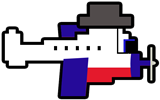
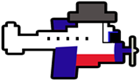
Changed obstacle.

diff --git a/build/html5/c2runtime.js b/build/html5/c2runtime.js
@@ -311,39 +311,39 @@ s||(this.b.trigger(Ob.prototype.j.Tn,this.e),this.gc=1));0<this.Ge&&this.Ge--;th
 (function(){function g(){}function q(){}var c=Pb.prototype;c.ta=function(a){this.Na=a;this.b=a.b};c.ta.prototype.X=u();c.ka=function(a,b){this.type=a;this.Na=a.Na;this.e=b;this.b=a.b};var h=c.ka.prototype;h.X=function(){this.Xa={}};h.cf=function(){Ka(this.Xa)};h.ib=function(){var a={},b,c;for(b in this.Xa)this.Xa.hasOwnProperty(b)&&(c=this.Xa[b],a[b]={c:c.nd.ba,t:c.total.ba,d:c.duration,r:c.fk});return a};h.Nb=function(a){this.Xa={};for(var b in a)a.hasOwnProperty(b)&&(this.Xa[b]={nd:new La,total:new La,
 duration:a[b].d,fk:a[b].r},this.Xa[b].nd.ba=a[b].c,this.Xa[b].total.ba=a[b].t)};h.qc=function(){var a=this.b.Jf(this.e),b,c;for(b in this.Xa)this.Xa.hasOwnProperty(b)&&(c=this.Xa[b],c.nd.add(a),c.total.add(a))};h.bi=function(){var a,b;for(a in this.Xa)this.Xa.hasOwnProperty(a)&&(b=this.Xa[a],b.nd.ba>=b.duration&&(b.fk?b.nd.ba-=b.duration:delete this.Xa[a]))};g.prototype.ao=function(a){a=a.toLowerCase();return(a=this.Xa[a])?a.nd.ba>=a.duration:!1};c.j=new g;q.prototype.eo=function(a,b,c){this.Xa[c.toLowerCase()]=
 {nd:new La,total:new La,duration:a,fk:1===b}};c.k=new q;c.A=new (u())})();function Nb(g){this.b=g}(function(){function g(){}function q(){}var c=Nb.prototype;c.ta=function(a){this.Na=a;this.b=a.b};c.ta.prototype.X=u();c.ka=function(a,b){this.type=a;this.Na=a.Na;this.e=b;this.b=a.b};var h=c.ka.prototype;h.X=function(){this.e.I.tk=0!==this.Y[0]};h.qc=u();g.prototype.Dn=function(){return this.e.I.tk};c.j=new g;q.prototype.Dg=function(a){this.e.I.tk=!!a};c.k=new q})();
-function Mb(){return[null,"Splash Layout",[[R,!0,!1,!1,!1,!1,!1,!1,!1,!1],[S,!0,!1,!1,!1,!1,!1,!1,!1,!1],[T,!0,!1,!1,!1,!1,!1,!1,!1,!1],[U,!1,!0,!0,!0,!0,!0,!0,!0,!1],[W,!1,!0,!0,!0,!0,!0,!0,!0,!1],[X,!0,!1,!1,!1,!1,!1,!1,!1,!1]],[["t0",U,!1,[],0,0,null,[["Default",5,!1,1,0,!1,0xe2350f3b789a1,[["images/city-sheet0.png",394393,0,0,1366,768,1,0.5,0.5,[],[],1]]]],[],!1,!1,0x9065c4b9e0f25,[],null],["t1",U,!1,[],0,0,null,[["Default",5,!1,1,0,!1,9483712479441204,[["images/pipeshort-sheet0.png",1505,0,0,
-194,299,1,0.5,0.501672,[],[],0]]]],[],!1,!1,24696104139148,[],null],["t2",U,!1,[],0,0,null,[["Default",5,!1,1,0,!1,8492861326551939,[["images/pipelong-sheet0.png",1585,0,0,194,398,1,0.5,0.5,[],[],0]]]],[],!1,!1,9858196522450528,[],null],["t3",U,!1,[8975771689627949],0,0,null,[["Default",0,!1,0,0,!1,5053048256077534,[["images/yellowplane-sheet0.png",10847,1,1,160,100,1,0.5,0.5,[],[],0],["images/yellowplane-sheet0.png",10847,1,102,160,100,1,0.5,0.5,[],[],0],["images/yellowplane-sheet1.png",12272,1,
-1,160,100,1,0.5,0.5,[],[],0],["images/yellowplane-sheet1.png",12272,1,102,160,100,1,0.5,0.5,[],[],0],["images/yellowplane-sheet2.png",4811,0,0,160,100,1,0.5,0.5,[],[],0]]]],[],!1,!1,0xbe19100e0c471,[],null],["t4",X,!1,[],0,0,null,null,[],!1,!1,5251346461078875,[],null,[1]],["t5",T,!1,[],0,0,null,null,[],!1,!1,5889261220175322,[],null,[]],["t6",S,!1,[],0,0,null,null,[],!1,!1,7167690024211609,[],null,[]],["t7",U,!1,[],0,0,null,[["Default",5,!1,1,0,!1,0x8e2ea50191c9f,[["images/pipelongflip-sheet0.png",
-1576,0,0,194,398,1,0.5,0.5,[],[],0]]]],[],!1,!1,0xbf8cf6a1b33d3,[],null],["t8",U,!1,[],0,0,null,[["Default",5,!1,1,0,!1,9029070330345368,[["images/pipeshortflip-sheet0.png",1498,0,0,194,299,1,0.5,0.498328,[],[],0]]]],[],!1,!1,0xb92c52bc9f730,[],null],["t9",U,!1,[],2,0,null,[["Default",5,!1,1,0,!1,0x8217a4b66e137,[["images/splashscreen-sheet0.png",382831,0,0,1024,765,1,0.5,0.500654,[],[],1]]]],[["Timer",Pb,8731066911831745],["Fade",Z,5447916190947021]],!1,!1,631476130683007,[],null],["t10",W,!1,[],
-0,0,null,null,[],!1,!1,5055651003782313,[],null],["t11",R,!1,[],0,0,null,null,[],!1,!1,6183595759476167,[],null,[]],["t12",W,!1,[],0,0,null,null,[],!1,!1,5273758089007138,[],null],["t13",W,!1,[],0,0,null,null,[],!1,!1,4708955069273212,[],null],["t14",U,!1,[],1,0,null,[["Default",0,!1,0,0,!1,0xaf2f19743c9c1,[["images/spriteintro-sheet0.png",10547,1,1,650,150,1,0.5,0.5,[],[],0],["images/spriteintro-sheet0.png",10547,1,152,650,150,1,0.5,0.5,[],[],0]]]],[["Fade",Z,6860128921636304]],!1,!1,0xd00defae9da63,
-[],null],["t15",W,!1,[],0,0,null,null,[],!1,!1,378979246954202,[],null],["t16",U,!1,[],1,0,null,[["Default",0,!1,0,0,!1,850991440331399,[["images/spritelose-sheet0.png",33263,1,252,750,250,1,0.5,0.5,[],[],0],["images/spritelose-sheet0.png",33263,1,1,780,250,1,0.5,0.5,[],[],0]]]],[["Fade",Z,0x79313b789fe19]],!1,!1,5255525959173283,[],null],["t17",U,!1,[],0,0,null,[["Default",5,!1,1,0,!1,0xcc84cd084cd85,[["images/explosion-sheet0.png",10622,0,0,200,200,1,0.5,0.5,[],[],0],["images/explosion-sheet1.png",
-8669,0,0,200,200,1,0.5,0.5,[],[],0],["images/explosion-sheet2.png",6103,0,0,200,200,1,0.5,0.5,[],[],0]]]],[],!1,!1,7140895954139386,[],null],["t18",U,!0,[8975771689627949],1,0,null,null,[["Platform",Ob,6773605789435345]],!1,!1,7112896616641586,[],null],["t19",U,!0,[],0,0,null,null,[],!1,!1,0xa39ed814d7977,[],null],["t20",U,!0,[],1,0,null,null,[["Solid",Nb,6410829608669885]],!1,!1,0xe5a48f0af7ad9,[],null],["t21",U,!0,[],0,0,null,null,[],!1,!1,8390661123987275,[],null]],[[18,3],[19,0],[20,2,7,1,8],
-[21,2,7,1,8]],[["Game Layout",1366,768,!1,"Game Event",0x60d3a4ee20bc7,[["Background",0,0x65782b9ff81ed,!0,[255,255,255],!1,0,0,1,!1,1,0,0,[[[683,384,0,1366,768,0,0,1,0.5,0.5,0,0,[]],0,0,[],[],[0,"Default",0,1]],[[2049,384,0,1366,768,0,0,1,0.5,0.5,0,0,[]],0,6,[],[],[0,"Default",0,1]]],[]],["Game",1,0xb193c41bbd302,!0,[255,255,255],!0,1,1,1,!1,1,0,0,[[[-423,553,0,180,260,0,0,1,0.5,0.501672,0,0,[]],1,2,[],[[1]],[0,"Default",0,1]],[[-181,588,0,180,340,0,0,1,0.5,0.5,0,0,[]],2,3,[],[[1]],[0,"Default",
-0,1]],[[683,384,0,160,100,0,0,1,0.5,0.5,0,0,[]],3,1,[[0]],[[0,1500,1500,650,1500,1E3,1,1]],[0,"Default",0,1]],[[-187,142,0,180,340,0,0,1,0.5,0.5,0,0,[]],7,8,[],[[1]],[0,"Default",0,1]],[[-419,150,0,180,260,0,0,1,0.5,0.498328,0,0,[]],8,9,[],[[1]],[0,"Default",0,1]],[[272,-269,0,200,200,0,0,1,0.5,0.5,0,0,[]],17,18,[],[],[0,"Default",0,1]]],[]],["UI",2,9986936181199634,!0,[255,255,255],!0,1,1,1,!1,1,0,0,[[[600,743,0,400,50,0,0,1,0.5,0.5,0,0,[]],12,13,[],[],["Version",0,"26pt Arial","rgb(0,0,0)",1,1,
-1,0,0]],[[200,743,0,400,50,0,0,1,0.5,0.5,0,0,[]],10,11,[],[],["No update found.",0,"26pt Arial","rgb(0,0,0)",1,1,1,0,0]],[[100,25,0,200,50,0,0,1,0.5,0.5,0,0,[]],13,14,[],[],["Score",0,"26pt Arial","rgb(0,0,0)",1,1,1,0,0]],[[956,984,0,650,150,0,0,1,0.5,0.5,0,0,[]],14,15,[],[[0,0,0,1,0]],[0,"Default",0,1]],[[3,-252,0,500,150,0,0,1,0.5,0.5,0,0,[]],15,16,[],[],["Text",0,"72pt Arial","rgb(0,0,0)",1,1,1,0,0]],[[188,985,0,750,250,0,0,1,0.5,0.5,0,0,[]],16,17,[],[[0,0,0,1,0]],[0,"Default",0,1]]],[]]],[],[]],
-["Splash Layout",1024,765,!1,"Splash Event",0x49addcd68c3b1,[["Background",0,0xf52b3430babf4,!0,[255,255,255],!1,1,1,1,!1,1,0,0,[[[512,383,0,1024,765,0,0,1,0.5,0.500654,0,0,[]],9,10,[],[[],[0,0,0,1,1]],[0,"Default",0,1]]],[]]],[],[]]],[["Game Event",[[1,"isPaused",0,0,!1,!1,8789961767725841,!1],[1,"PlayerScore",0,0,!1,!1,5154908271582909,!1],[1,"PipeVariation",0,0,!1,!1,7581905702786113,!1],[0,[!0,"Debug"],!1,null,6778598484776996,[[-1,Q.prototype.j.Pd,null,0,!1,!1,!1,6778598484776996,!1,[[1,[2,"Debug"]]]]],
-[],[[0,null,!1,null,7010741781343504,[[5,T.prototype.j.Nk,null,1,!1,!1,!1,344801384559382,!1,[[9,80]]]],[[18,U.prototype.k.vn,null,6860026715137972,!1,[[10,0],[7,[0,1]]]]]],[0,null,!1,null,0xaf3d2a407d3ac,[[18,U.prototype.j.zn,null,0,!1,!1,!1,325045206074811,!1,[[10,0],[8,5],[7,[0,5]]]]],[[18,U.prototype.k.bo,null,5105182043192559,!1,[[10,0],[7,[0,0]]]]]],[0,null,!1,null,0x5c7de5c738845,[[-1,Q.prototype.j.Jk,null,0,!1,!1,!1,0xe5fa794717893,!1]],[[18,U.prototype.k.Cg,null,6317115426811624,!1,[[0,[21,
-18,!1,null,0]]]]]]]],[0,[!0,"System"],!1,null,0x417d14d5e1904,[[-1,Q.prototype.j.Pd,null,0,!1,!1,!1,0x417d14d5e1904,!1,[[1,[2,"System"]]]]],[],[[0,null,!1,null,9852792807390658,[[-1,Q.prototype.j.si,null,1,!1,!1,!1,5755246441163918,!1]],[[13,W.prototype.k.Eg,null,622221904381724,!1,[[1,[2,"Conv_Comix Loud"]],[1,[2,"stylesheet.css"]]]],[10,W.prototype.k.Eg,null,9497552670186120,!1,[[1,[2,"Conv_Comix Loud"]],[1,[2,"stylesheet.css"]]]],[12,W.prototype.k.Eg,null,0x9f37f099f2f7d,!1,[[1,[2,"Conv_Comix Loud"]],
-[1,[2,"stylesheet.css"]]]],[15,W.prototype.k.Eg,null,0xca6ef92c892a,!1,[[1,[2,"Conv_Comix Loud"]],[1,[2,"stylesheet.css"]]]],[-1,Q.prototype.k.Nc,null,0x6f9a09cea1e2a,!1,[[4,14],[5,[2,"UI"]],[0,[7,[19,Q.prototype.A.Bc],[0,2]]],[0,[7,[19,Q.prototype.A.ge],[0,2]]]]],[14,Z.prototype.k.xf,"Fade",0xd4d37e3505638,!1],[-1,Q.prototype.k.xe,null,9466876292500404,!1,[[11,"isPaused"],[7,[0,1]]]]]],[0,null,!1,null,6228974169092589,[[-1,Q.prototype.j.Jk,null,0,!1,!1,!1,0x946d809f90fe7,!1],[-1,Q.prototype.j.Mc,
-null,0,!1,!1,!1,0x5742c4834b00f,!1,[[11,"isPaused"],[8,0],[7,[0,0]]]]],[[19,U.prototype.k.Bi,null,7275786735010941,!1,[[0,[5,[20,19,U.prototype.A.Fg,!1,null],[0,5]]]]],[20,U.prototype.k.Bi,null,0xff00d3df60775,!1,[[0,[5,[20,20,U.prototype.A.Fg,!1,null],[0,5]]]]],[12,W.prototype.k.wf,null,9914611989785652,!1,[[7,[10,[2,"Version: "],[19,Q.prototype.A.Iq]]]]],[13,W.prototype.k.wf,null,7856869945262624,!1,[[7,[10,[2,"Score: "],[23,"PlayerScore"]]]]]]],[0,null,!1,null,0xe47608ccafb05,[[-1,Q.prototype.j.Mc,
-null,0,!1,!1,!1,0x48da4b3944326,!1,[[11,"isPaused"],[8,0],[7,[0,1]]]]],[],[[0,null,!1,null,7228193676180163,[[18,U.prototype.j.qi,null,0,!1,!1,!1,9791199646139816,!1]],[[18,Ob.prototype.k.Dg,"Platform",0x80f5cf400eda5,!1,[[3,0]]]]],[0,null,!1,null,0xb62d10a37c389,[[14,Z.prototype.j.we,"Fade",1,!1,!1,!1,0xc836f1a69798,!1],[14,U.prototype.j.ve,null,0,!1,!1,!1,8614571385794655,!1,[[8,0],[0,[0,0]]]]],[[14,U.prototype.k.Cg,null,5372984543098871,!1,[[0,[0,1]]]],[14,Z.prototype.k.yi,"Fade",0xfb20a8ee0ddce,
-!1],[-1,Q.prototype.k.xe,null,6575124688491476,!1,[[11,"isPaused"],[7,[0,0]]]]]],[0,null,!1,null,5291087103886329,[[14,Z.prototype.j.we,"Fade",1,!1,!1,!1,0xe767e66f7fe00,!1],[14,U.prototype.j.ve,null,0,!1,!1,!1,0x7182fca181a54,!1,[[8,0],[0,[0,1]]]]],[]],[0,null,!1,null,7643867972621898,[[16,Z.prototype.j.we,"Fade",1,!1,!1,!1,0xc5fd4a8c45383,!1],[16,U.prototype.j.ve,null,0,!1,!1,!1,0xa94e7ebd4918c,!1,[[8,0],[0,[0,0]]]]],[[16,U.prototype.k.Cg,null,0x89bd7adeba51e,!1,[[0,[0,1]]]],[16,Z.prototype.k.yi,
-"Fade",0xd7fc202086ad7,!1]]],[0,null,!1,null,0xbe934dfa6af6d,[[16,Z.prototype.j.we,"Fade",1,!1,!1,!1,6493026489168866,!1],[16,U.prototype.j.ve,null,0,!1,!1,!1,6515985557003201,!1,[[8,0],[0,[0,1]]]]],[[-1,Q.prototype.k.ho,null,0x74d19b52ae9ab,!1,[[0,[1,0.2]]]],[16,U.prototype.k.Cg,null,5282783424719867,!1,[[0,[0,1]]]],[16,Z.prototype.k.yi,"Fade",6485200836550053,!1]]],[0,null,!1,null,4879757645231549,[[5,T.prototype.j.Bg,null,1,!1,!1,!1,0x7a141bf688487,!1],[16,U.prototype.j.ve,null,0,!1,!1,!1,317757612649701,
-!1,[[8,0],[0,[0,1]]]]],[[-1,Q.prototype.k.xe,null,9361805154570614,!1,[[11,"isPaused"],[7,[0,1]]]],[-1,Q.prototype.k.xi,null,8318441203759412,!1],[-1,Q.prototype.k.Ai,null,0x5a03f29273d3c,!1]]],[0,null,!1,null,6385440046177438,[[4,X.prototype.j.vf,null,1,!1,!1,!1,0xb72dc5d89c790,!1],[16,U.prototype.j.ve,null,0,!1,!1,!1,0x756552d92305b,!1,[[8,0],[0,[0,1]]]]],[[-1,Q.prototype.k.xe,null,0xbb6f4b4313a4b,!1,[[11,"isPaused"],[7,[0,1]]]],[-1,Q.prototype.k.xi,null,8979390161250485,!1],[-1,Q.prototype.k.Ai,
-null,284213440079608,!1]]]]],[0,null,!1,null,7984638284420198,[[-1,Q.prototype.j.Mc,null,0,!1,!1,!1,9133696647138152,!1,[[11,"isPaused"],[8,0],[7,[0,0]]]]],[],[[0,null,!1,null,0xe019c04bf6b90,[[18,U.prototype.j.qi,null,0,!1,!1,!1,0x9ec9c6736a21b,!1]],[[18,Ob.prototype.k.Dg,"Platform",6444318175400282,!1,[[3,1]]]]]]],[0,null,!1,null,0xcb56ee707cedd,[[11,R.prototype.j.Kk,null,0,!1,!1,!1,7616992987185691,!1]],[[10,W.prototype.k.wf,null,621268224485841,!1,[[7,[2,"Downloading update..."]]]]]],[0,null,
-!1,null,7587258246140686,[[11,R.prototype.j.Kk,null,0,!1,!0,!1,0xd7df2d1530baf,!1]],[[10,W.prototype.k.wf,null,5773427850710633,!1,[[7,[2,"No update found."]]]]]],[0,null,!1,null,0x7e5d3180e3aa0,[[11,R.prototype.j.wi,null,1,!1,!1,!1,0xd5f7364e142a2,!1]],[[10,W.prototype.k.wf,null,0xd79aec2eeaaff,!1,[[7,[2,"Game updated."]]]],[11,R.prototype.k.xn,null,5755051489563122,!1,[[7,[2,"Krazy Planes has successfully updated just now. Click here to restart the game."]]]],[-1,Q.prototype.k.xi,null,8259419734595971,
-!1],[-1,Q.prototype.k.Ai,null,6698311130495306,!1]]]]],[0,[!0,"Level"],!1,null,7458157205288591,[[-1,Q.prototype.j.Pd,null,0,!1,!1,!1,7458157205288591,!1,[[1,[2,"Level"]]]]],[],[[0,null,!1,null,0x3a100c7f97639,[[-1,Q.prototype.j.Bn,null,0,!1,!1,!1,6037516888355168,!1,[[0,[1,1.5]]]],[-1,Q.prototype.j.Mc,null,0,!1,!1,!1,9823340892368746,!1,[[11,"isPaused"],[8,0],[7,[0,0]]]]],[[-1,Q.prototype.k.xe,null,0x4044896496108,!1,[[11,"PipeVariation"],[7,[19,Q.prototype.A.floor,[[19,Q.prototype.A.random,[[0,
-0],[0,3]]]]]]]]],[[0,null,!1,null,946964343511743,[[-1,Q.prototype.j.Mc,null,0,!1,!1,!1,942158525925632,!1,[[11,"PipeVariation"],[8,0],[7,[0,0]]]]],[[6,S.prototype.k.CallFunction,null,0x6ecdd7d5647ba,!1,[[1,[2,"CreatePipeShort"]],[13]]]]],[0,null,!1,null,0x90ab6f49c0a5a,[[-1,Q.prototype.j.Mc,null,0,!1,!1,!1,0xe6e6ec14a4c9a,!1,[[11,"PipeVariation"],[8,0],[7,[0,1]]]]],[[6,S.prototype.k.CallFunction,null,0xb8c8f3b8bad01,!1,[[1,[2,"CreatePipeShortLong"]],[13]]]]],[0,null,!1,null,307737187850125,[[-1,
-Q.prototype.j.Mc,null,0,!1,!1,!1,7088391592507287,!1,[[11,"PipeVariation"],[8,0],[7,[0,2]]]]],[[6,S.prototype.k.CallFunction,null,9929472602026068,!1,[[1,[2,"CreatePipeLongShort"]],[13]]]]]]]]],[0,[!0,"Input"],!1,null,0xd675a1019d4e1,[[-1,Q.prototype.j.Pd,null,0,!1,!1,!1,0xd675a1019d4e1,!1,[[1,[2,"Input"]]]]],[],[[0,null,!1,null,7426984913654209,[[5,T.prototype.j.Bg,null,1,!1,!1,!1,0xa959ef59ae84e,!1]],[[18,Ob.prototype.k.Vk,"Platform",6661328157667306,!1,[[0,[0,-400]]]]]],[0,null,!1,null,0xae261e2766806,
-[[4,X.prototype.j.vf,null,1,!1,!1,!1,8293828217964896,!1]],[[18,Ob.prototype.k.Vk,"Platform",0xbb3977799cabd,!1,[[0,[0,-400]]]]]]]],[0,[!0,"Collision"],!1,null,5625581531054905,[[-1,Q.prototype.j.Pd,null,0,!1,!1,!1,5625581531054905,!1,[[1,[2,"Collision"]]]]],[],[[0,null,!1,null,6229384262465646,[[18,U.prototype.j.Jn,null,0,!1,!1,!0,0xb21487bae4b7f,!1,[[4,20]]],[-1,Q.prototype.j.Mc,null,0,!1,!1,!1,5847632580319147,!1,[[11,"isPaused"],[8,0],[7,[0,0]]]]],[[18,U.prototype.k.Ag,null,6005497092087538,!1],
-[6,S.prototype.k.CallFunction,null,0xa1ed711d2e1f,!1,[[1,[2,"RestartGame"]],[13]]]]],[0,null,!1,null,6786308769609281,[[21,U.prototype.j.Ik,null,0,!1,!1,!1,0x45c689d810398,!1,[[8,3],[0,[7,[20,21,U.prototype.A.sc,!1,null],[0,2]]]]]],[[21,U.prototype.k.Wk,null,8613066213525604,!1,[[0,[7,[20,21,U.prototype.A.sc,!1,null],[0,2]]]]]]],[0,null,!1,null,0xa1e2fc252026d,[[21,U.prototype.j.Ik,null,0,!1,!1,!1,0xef04e56ad307a,!1,[[8,5],[0,[5,[19,Q.prototype.A.ge],[7,[20,21,U.prototype.A.sc,!1,null],[0,2]]]]]]],
-[[21,U.prototype.k.Wk,null,5299284008323382,!1,[[0,[5,[19,Q.prototype.A.ge],[7,[20,21,U.prototype.A.sc,!1,null],[0,2]]]]]]]],[0,null,!1,null,9145739915106394,[[20,U.prototype.j.ni,null,0,!1,!1,!1,0x525fb162387ac,!1,[[8,3],[0,[7,[19,Q.prototype.A.Bc],[0,2]]]]],[20,U.prototype.j.qi,null,0,!1,!1,!1,7603286201014332,!1],[20,Nb.prototype.j.Dn,"Solid",0,!1,!1,!1,9307006103482356,!1]],[[-1,Q.prototype.k.wn,null,636128883417767,!1,[[11,"PlayerScore"],[7,[0,1]]]],[20,Nb.prototype.k.Dg,"Solid",9481362189218478,
-!1,[[3,0]]]]]]],[0,[!0,"Memory"],!1,null,9306876313081022,[[-1,Q.prototype.j.Pd,null,0,!1,!1,!1,9306876313081022,!1,[[1,[2,"Memory"]]]]],[],[[0,null,!1,null,846662023014867,[[19,U.prototype.j.ni,null,0,!1,!1,!1,0x56322607315c9,!1,[[8,3],[0,[7,[3,[20,19,U.prototype.A.Di,!1,null]],[0,2]]]]]],[[19,U.prototype.k.Bi,null,5990094045008489,!1,[[0,[5,[4,[19,Q.prototype.A.Bc],[7,[20,19,U.prototype.A.Di,!1,null],[0,2]]],[0,5]]]]]]],[0,null,!1,null,4694560689865849,[[21,U.prototype.j.ni,null,0,!1,!1,!1,4737181960364781,
-!1,[[8,3],[0,[3,[7,[20,21,U.prototype.A.Di,!1,null],[0,2]]]]]]],[[21,U.prototype.k.Ag,null,4816323421882028,!1]]],[0,null,!1,null,5397070056044579,[[18,U.prototype.j.En,null,0,!1,!1,!1,8013627337455417,!1],[-1,Q.prototype.j.Mc,null,0,!1,!1,!1,484319153745511,!1,[[11,"isPaused"],[8,0],[7,[0,0]]]]],[[18,U.prototype.k.Ag,null,0xc0b231f91c107,!1],[6,S.prototype.k.CallFunction,null,9207155476228784,!1,[[1,[2,"RestartGame"]],[13]]]]],[0,null,!1,null,0xe1d9feecf58b9,[[17,U.prototype.j.Lk,null,1,!1,!1,!1,
-4874139858328296,!1]],[[17,U.prototype.k.Ag,null,0x5fb8516ff8a9b,!1]]]]],[0,[!0,"Function"],!1,null,0xf0aa7f416474a,[[-1,Q.prototype.j.Pd,null,0,!1,!1,!1,0xf0aa7f416474a,!1,[[1,[2,"Function"]]]]],[],[[0,null,!1,null,0xa004630b94df5,[[6,S.prototype.j.uf,null,2,!1,!1,!1,8190100091631277,!1,[[1,[2,"RestartGame"]]]]],[[-1,Q.prototype.k.Nc,null,0x6ad7aa57bdc9d,!1,[[4,17],[5,[2,"Game"]],[0,[20,18,U.prototype.A.Fg,!1,null]],[0,[20,18,U.prototype.A.Xk,!1,null]]]],[-1,Q.prototype.k.Nc,null,9745732425100548,
-!1,[[4,16],[5,[2,"UI"]],[0,[7,[19,Q.prototype.A.Bc],[0,2]]],[0,[7,[19,Q.prototype.A.ge],[0,2]]]]],[16,Z.prototype.k.xf,"Fade",8274260564238357,!1],[-1,Q.prototype.k.xe,null,0x3e24ae66ebf0a,!1,[[11,"isPaused"],[7,[0,1]]]]]],[0,null,!1,null,0xe4768eb983ce4,[[6,S.prototype.j.uf,null,2,!1,!1,!1,5880032442562335,!1,[[1,[2,"CreatePipeShort"]]]]],[[-1,Q.prototype.k.Nc,null,0x7203fe11eb05d,!1,[[4,1],[5,[2,"Game"]],[0,[4,[19,Q.prototype.A.Bc],[0,200]]],[0,[7,[20,1,U.prototype.A.sc,!1,null],[0,2]]]]],[-1,Q.prototype.k.Nc,
-null,9735506331020326,!1,[[4,8],[5,[2,"Game"]],[0,[4,[19,Q.prototype.A.Bc],[0,200]]],[0,[5,[19,Q.prototype.A.ge],[7,[20,8,U.prototype.A.sc,!1,null],[0,2]]]]]]]],[0,null,!1,null,7165941636159493,[[6,S.prototype.j.uf,null,2,!1,!1,!1,6989412614493768,!1,[[1,[2,"CreatePipeShortLong"]]]]],[[-1,Q.prototype.k.Nc,null,0x44b91e5cb3749,!1,[[4,1],[5,[2,"Game"]],[0,[4,[19,Q.prototype.A.Bc],[0,200]]],[0,[7,[20,1,U.prototype.A.sc,!1,null],[0,2]]]]],[-1,Q.prototype.k.Nc,null,7069781424687582,!1,[[4,7],[5,[2,"Game"]],
-[0,[4,[19,Q.prototype.A.Bc],[0,200]]],[0,[5,[19,Q.prototype.A.ge],[7,[20,7,U.prototype.A.sc,!1,null],[0,2]]]]]]]],[0,null,!1,null,9340019348510102,[[6,S.prototype.j.uf,null,2,!1,!1,!1,9125959762946678,!1,[[1,[2,"CreatePipeLongShort"]]]]],[[-1,Q.prototype.k.Nc,null,0x4f44433e4b618,!1,[[4,2],[5,[2,"Game"]],[0,[4,[19,Q.prototype.A.Bc],[0,200]]],[0,[7,[20,2,U.prototype.A.sc,!1,null],[0,2]]]]],[-1,Q.prototype.k.Nc,null,645936157675272,!1,[[4,8],[5,[2,"Game"]],[0,[4,[19,Q.prototype.A.Bc],[0,200]]],[0,[5,
-[19,Q.prototype.A.ge],[7,[20,8,U.prototype.A.sc,!1,null],[0,2]]]]]]]]]]]],["Splash Event",[[0,null,!1,null,7637864705099747,[[-1,Q.prototype.j.si,null,1,!1,!1,!1,6621417393101038,!1]],[[-1,Q.prototype.k.Uk,null,0x863d22b977772,!1,[[0,[0,1024]],[0,[0,765]]]],[9,Pb.prototype.k.eo,"Timer",9121106298394682,!1,[[0,[1,2]],[3,0],[1,[2,"splash_timer"]]]]]],[0,null,!1,null,0xc2a851d74a538,[[9,Pb.prototype.j.ao,"Timer",0,!1,!1,!1,0x655e2e0d02db3,!1,[[1,[2,"splash_timer"]]]]],[[9,Z.prototype.k.xf,"Fade",5776474067308835,
-!1]]],[0,null,!1,null,0x95ee2339243ff,[[5,T.prototype.j.Bg,null,1,!1,!1,!1,8007705479787504,!1]],[[9,Z.prototype.k.xf,"Fade",7350295952072681,!1]]],[0,null,!1,null,0x9c05980ff2701,[[4,X.prototype.j.vf,null,1,!1,!1,!1,4520951387722214,!1]],[[9,Z.prototype.k.xf,"Fade",9894427567786718,!1]]],[0,null,!1,null,0x6186b792fcbd2,[[9,Z.prototype.j.we,"Fade",1,!1,!1,!1,0x8792132a3b83b,!1]],[[-1,Q.prototype.k.Uk,null,6192385964354714,!1,[[0,[0,1366]],[0,[0,768]]]],[-1,Q.prototype.k.Cn,null,5774364256224769,!1,
-[[6,"Game Layout"]]]]]]]],"media/",!1,1366,768,4,!0,!0,!0,"0.0.1.6a",!0,!1,0,0,19,!1,!0,[]]};
+function Mb(){return[null,"Splash Layout",[[R,!0,!1,!1,!1,!1,!1,!1,!1,!1],[S,!0,!1,!1,!1,!1,!1,!1,!1,!1],[T,!0,!1,!1,!1,!1,!1,!1,!1,!1],[U,!1,!0,!0,!0,!0,!0,!0,!0,!1],[W,!1,!0,!0,!0,!0,!0,!0,!0,!1],[X,!0,!1,!1,!1,!1,!1,!1,!1,!1]],[["t0",U,!1,[],0,0,null,[["Default",5,!1,1,0,!1,0xe2350f3b789a1,[["images/city-sheet0.png",394393,0,0,1366,768,1,0.5,0.5,[],[],1]]]],[],!1,!1,0x9065c4b9e0f25,[],null],["t1",U,!1,[],0,0,null,[["Default",0,!1,0,0,!1,9483712479441204,[["images/pipeshort-sheet0.png",2331,196,
+1,98,365,1,0.5,0.49863,[],[],0],["images/pipeshort-sheet0.png",2331,1,1,194,299,1,0.5,0.501672,[],[],0]]]],[],!1,!1,24696104139148,[],null],["t2",U,!1,[],0,0,null,[["Default",0,!1,0,0,!1,8492861326551939,[["images/pipeshort-sheet0.png",2331,196,1,98,365,1,0.5,0.49863,[],[],0],["images/pipelong-sheet0.png",1585,0,0,194,398,1,0.5,0.5,[],[],0]]]],[],!1,!1,9858196522450528,[],null],["t3",U,!1,[8975771689627949],0,0,null,[["Default",0,!1,0,0,!1,5053048256077534,[["images/yellowplane-sheet0.png",19198,
+1,1,140,80,1,0.5,0.5,[],[],0],["images/yellowplane-sheet0.png",19198,1,82,140,80,1,0.5,0.5,[],[],0],["images/yellowplane-sheet0.png",19198,1,163,140,80,1,0.5,0.5,[],[],0],["images/yellowplane-sheet1.png",10891,1,1,140,80,1,0.5,0.5,[],[],0],["images/yellowplane-sheet1.png",10891,1,82,140,80,1,0.5,0.5,[],[],0]]]],[],!1,!1,0xbe19100e0c471,[],null],["t4",X,!1,[],0,0,null,null,[],!1,!1,5251346461078875,[],null,[1]],["t5",T,!1,[],0,0,null,null,[],!1,!1,5889261220175322,[],null,[]],["t6",S,!1,[],0,0,null,
+null,[],!1,!1,7167690024211609,[],null,[]],["t7",U,!1,[],0,0,null,[["Default",0,!1,0,0,!1,0x8e2ea50191c9f,[["images/pipelongflip-sheet0.png",2403,196,1,98,365,1,0.5,0.50137,[],[],0],["images/pipelongflip-sheet0.png",2403,1,1,194,398,1,0.5,0.5,[],[],0]]]],[],!1,!1,0xbf8cf6a1b33d3,[],null],["t8",U,!1,[],0,0,null,[["Default",0,!1,0,0,!1,9029070330345368,[["images/pipelongflip-sheet0.png",2403,196,1,98,365,1,0.5,0.50137,[],[],0],["images/pipeshortflip-sheet0.png",1498,0,0,194,299,1,0.5,0.498328,[],[],
+0]]]],[],!1,!1,0xb92c52bc9f730,[],null],["t9",U,!1,[],2,0,null,[["Default",5,!1,1,0,!1,0x8217a4b66e137,[["images/splashscreen-sheet0.png",382831,0,0,1024,765,1,0.5,0.500654,[],[],1]]]],[["Timer",Pb,8731066911831745],["Fade",Z,5447916190947021]],!1,!1,631476130683007,[],null],["t10",W,!1,[],0,0,null,null,[],!1,!1,5055651003782313,[],null],["t11",R,!1,[],0,0,null,null,[],!1,!1,6183595759476167,[],null,[]],["t12",W,!1,[],0,0,null,null,[],!1,!1,5273758089007138,[],null],["t13",W,!1,[],0,0,null,null,[],
+!1,!1,4708955069273212,[],null],["t14",U,!1,[],1,0,null,[["Default",0,!1,0,0,!1,0xaf2f19743c9c1,[["images/spriteintro-sheet0.png",10547,1,1,650,150,1,0.5,0.5,[],[],0],["images/spriteintro-sheet0.png",10547,1,152,650,150,1,0.5,0.5,[],[],0]]]],[["Fade",Z,6860128921636304]],!1,!1,0xd00defae9da63,[],null],["t15",W,!1,[],0,0,null,null,[],!1,!1,378979246954202,[],null],["t16",U,!1,[],1,0,null,[["Default",0,!1,0,0,!1,850991440331399,[["images/spritelose-sheet0.png",33263,1,252,750,250,1,0.5,0.5,[],[],0],
+["images/spritelose-sheet0.png",33263,1,1,780,250,1,0.5,0.5,[],[],0]]]],[["Fade",Z,0x79313b789fe19]],!1,!1,5255525959173283,[],null],["t17",U,!1,[],0,0,null,[["Default",5,!1,1,0,!1,0xcc84cd084cd85,[["images/explosion-sheet0.png",10622,0,0,200,200,1,0.5,0.5,[],[],0],["images/explosion-sheet1.png",8669,0,0,200,200,1,0.5,0.5,[],[],0],["images/explosion-sheet2.png",6103,0,0,200,200,1,0.5,0.5,[],[],0]]]],[],!1,!1,7140895954139386,[],null],["t18",U,!0,[8975771689627949],1,0,null,null,[["Platform",Ob,6773605789435345]],
+!1,!1,7112896616641586,[],null],["t19",U,!0,[],0,0,null,null,[],!1,!1,0xa39ed814d7977,[],null],["t20",U,!0,[],1,0,null,null,[["Solid",Nb,6410829608669885]],!1,!1,0xe5a48f0af7ad9,[],null],["t21",U,!0,[],0,0,null,null,[],!1,!1,8390661123987275,[],null]],[[18,3],[19,0],[20,2,7,1,8],[21,2,7,1,8]],[["Game Layout",1366,768,!1,"Game Event",0x60d3a4ee20bc7,[["Background",0,0x65782b9ff81ed,!0,[255,255,255],!1,0,0,1,!1,1,0,0,[[[683,384,0,1366,768,0,0,1,0.5,0.5,0,0,[]],0,0,[],[],[0,"Default",0,1]],[[2049,384,
+0,1366,768,0,0,1,0.5,0.5,0,0,[]],0,6,[],[],[0,"Default",0,1]]],[]],["Game",1,0xb193c41bbd302,!0,[255,255,255],!0,1,1,1,!1,1,0,0,[[[-423,553,0,90.9278,317.391,0,0,1,0.5,0.49863,0,0,[]],1,2,[],[[1]],[0,"Default",0,1]],[[-181,588,0,90.9278,311.809,0,0,1,0.5,0.49863,0,0,[]],2,3,[],[[1]],[0,"Default",0,1]],[[683,384,0,140,80,0,0,1,0.5,0.5,0,0,[]],3,1,[[0]],[[0,1500,1500,650,1500,1E3,1,1]],[0,"Default",0,1]],[[-187,142,0,90.9278,311.809,0,0,1,0.5,0.50137,0,0,[]],7,8,[],[[1]],[0,"Default",0,1]],[[-419,150,
+0,90.9278,317.391,0,0,1,0.5,0.50137,0,0,[]],8,9,[],[[1]],[0,"Default",0,1]],[[272,-269,0,200,200,0,0,1,0.5,0.5,0,0,[]],17,18,[],[],[0,"Default",0,1]]],[]],["UI",2,9986936181199634,!0,[255,255,255],!0,1,1,1,!1,1,0,0,[[[600,743,0,400,50,0,0,1,0.5,0.5,0,0,[]],12,13,[],[],["Version",0,"26pt Arial","rgb(0,0,0)",1,1,1,0,0]],[[200,743,0,400,50,0,0,1,0.5,0.5,0,0,[]],10,11,[],[],["No update found.",0,"26pt Arial","rgb(0,0,0)",1,1,1,0,0]],[[100,25,0,200,50,0,0,1,0.5,0.5,0,0,[]],13,14,[],[],["Score",0,"26pt Arial",
+"rgb(0,0,0)",1,1,1,0,0]],[[956,984,0,650,150,0,0,1,0.5,0.5,0,0,[]],14,15,[],[[0,0,0,1,0]],[0,"Default",0,1]],[[3,-252,0,500,150,0,0,1,0.5,0.5,0,0,[]],15,16,[],[],["Text",0,"72pt Arial","rgb(0,0,0)",1,1,1,0,0]],[[188,985,0,750,250,0,0,1,0.5,0.5,0,0,[]],16,17,[],[[0,0,0,1,0]],[0,"Default",0,1]]],[]]],[],[]],["Splash Layout",1024,765,!1,"Splash Event",0x49addcd68c3b1,[["Background",0,0xf52b3430babf4,!0,[255,255,255],!1,1,1,1,!1,1,0,0,[[[512,383,0,1024,765,0,0,1,0.5,0.500654,0,0,[]],9,10,[],[[],[0,0,
+0,1,1]],[0,"Default",0,1]]],[]]],[],[]]],[["Game Event",[[1,"isPaused",0,0,!1,!1,8789961767725841,!1],[1,"PlayerScore",0,0,!1,!1,5154908271582909,!1],[1,"PipeVariation",0,0,!1,!1,7581905702786113,!1],[0,[!0,"Debug"],!1,null,6778598484776996,[[-1,Q.prototype.j.Pd,null,0,!1,!1,!1,6778598484776996,!1,[[1,[2,"Debug"]]]]],[],[[0,null,!1,null,7010741781343504,[[5,T.prototype.j.Nk,null,1,!1,!1,!1,344801384559382,!1,[[9,80]]]],[[18,U.prototype.k.vn,null,6860026715137972,!1,[[10,0],[7,[0,1]]]]]],[0,null,!1,
+null,0xaf3d2a407d3ac,[[18,U.prototype.j.zn,null,0,!1,!1,!1,325045206074811,!1,[[10,0],[8,5],[7,[0,5]]]]],[[18,U.prototype.k.bo,null,5105182043192559,!1,[[10,0],[7,[0,0]]]]]],[0,null,!1,null,0x5c7de5c738845,[[-1,Q.prototype.j.Jk,null,0,!1,!1,!1,0xe5fa794717893,!1]],[[18,U.prototype.k.Cg,null,6317115426811624,!1,[[0,[21,18,!1,null,0]]]]]]]],[0,[!0,"System"],!1,null,0x417d14d5e1904,[[-1,Q.prototype.j.Pd,null,0,!1,!1,!1,0x417d14d5e1904,!1,[[1,[2,"System"]]]]],[],[[0,null,!1,null,9852792807390658,[[-1,
+Q.prototype.j.si,null,1,!1,!1,!1,5755246441163918,!1]],[[13,W.prototype.k.Eg,null,622221904381724,!1,[[1,[2,"Conv_Comix Loud"]],[1,[2,"stylesheet.css"]]]],[10,W.prototype.k.Eg,null,9497552670186120,!1,[[1,[2,"Conv_Comix Loud"]],[1,[2,"stylesheet.css"]]]],[12,W.prototype.k.Eg,null,0x9f37f099f2f7d,!1,[[1,[2,"Conv_Comix Loud"]],[1,[2,"stylesheet.css"]]]],[15,W.prototype.k.Eg,null,0xca6ef92c892a,!1,[[1,[2,"Conv_Comix Loud"]],[1,[2,"stylesheet.css"]]]],[-1,Q.prototype.k.Nc,null,0x6f9a09cea1e2a,!1,[[4,
+14],[5,[2,"UI"]],[0,[7,[19,Q.prototype.A.Bc],[0,2]]],[0,[7,[19,Q.prototype.A.ge],[0,2]]]]],[14,Z.prototype.k.xf,"Fade",0xd4d37e3505638,!1],[-1,Q.prototype.k.xe,null,9466876292500404,!1,[[11,"isPaused"],[7,[0,1]]]]]],[0,null,!1,null,6228974169092589,[[-1,Q.prototype.j.Jk,null,0,!1,!1,!1,0x946d809f90fe7,!1],[-1,Q.prototype.j.Mc,null,0,!1,!1,!1,0x5742c4834b00f,!1,[[11,"isPaused"],[8,0],[7,[0,0]]]]],[[19,U.prototype.k.Bi,null,7275786735010941,!1,[[0,[5,[20,19,U.prototype.A.Fg,!1,null],[0,5]]]]],[20,U.prototype.k.Bi,
+null,0xff00d3df60775,!1,[[0,[5,[20,20,U.prototype.A.Fg,!1,null],[0,5]]]]],[12,W.prototype.k.wf,null,9914611989785652,!1,[[7,[10,[2,"Version: "],[19,Q.prototype.A.Iq]]]]],[13,W.prototype.k.wf,null,7856869945262624,!1,[[7,[10,[2,"Score: "],[23,"PlayerScore"]]]]]]],[0,null,!1,null,0xe47608ccafb05,[[-1,Q.prototype.j.Mc,null,0,!1,!1,!1,0x48da4b3944326,!1,[[11,"isPaused"],[8,0],[7,[0,1]]]]],[],[[0,null,!1,null,7228193676180163,[[18,U.prototype.j.qi,null,0,!1,!1,!1,9791199646139816,!1]],[[18,Ob.prototype.k.Dg,
+"Platform",0x80f5cf400eda5,!1,[[3,0]]]]],[0,null,!1,null,0xb62d10a37c389,[[14,Z.prototype.j.we,"Fade",1,!1,!1,!1,0xc836f1a69798,!1],[14,U.prototype.j.ve,null,0,!1,!1,!1,8614571385794655,!1,[[8,0],[0,[0,0]]]]],[[14,U.prototype.k.Cg,null,5372984543098871,!1,[[0,[0,1]]]],[14,Z.prototype.k.yi,"Fade",0xfb20a8ee0ddce,!1],[-1,Q.prototype.k.xe,null,6575124688491476,!1,[[11,"isPaused"],[7,[0,0]]]]]],[0,null,!1,null,5291087103886329,[[14,Z.prototype.j.we,"Fade",1,!1,!1,!1,0xe767e66f7fe00,!1],[14,U.prototype.j.ve,
+null,0,!1,!1,!1,0x7182fca181a54,!1,[[8,0],[0,[0,1]]]]],[]],[0,null,!1,null,7643867972621898,[[16,Z.prototype.j.we,"Fade",1,!1,!1,!1,0xc5fd4a8c45383,!1],[16,U.prototype.j.ve,null,0,!1,!1,!1,0xa94e7ebd4918c,!1,[[8,0],[0,[0,0]]]]],[[16,U.prototype.k.Cg,null,0x89bd7adeba51e,!1,[[0,[0,1]]]],[16,Z.prototype.k.yi,"Fade",0xd7fc202086ad7,!1]]],[0,null,!1,null,0xbe934dfa6af6d,[[16,Z.prototype.j.we,"Fade",1,!1,!1,!1,6493026489168866,!1],[16,U.prototype.j.ve,null,0,!1,!1,!1,6515985557003201,!1,[[8,0],[0,[0,1]]]]],
+[[-1,Q.prototype.k.ho,null,0x74d19b52ae9ab,!1,[[0,[1,0.2]]]],[16,U.prototype.k.Cg,null,5282783424719867,!1,[[0,[0,1]]]],[16,Z.prototype.k.yi,"Fade",6485200836550053,!1]]],[0,null,!1,null,4879757645231549,[[5,T.prototype.j.Bg,null,1,!1,!1,!1,0x7a141bf688487,!1],[16,U.prototype.j.ve,null,0,!1,!1,!1,317757612649701,!1,[[8,0],[0,[0,1]]]]],[[-1,Q.prototype.k.xe,null,9361805154570614,!1,[[11,"isPaused"],[7,[0,1]]]],[-1,Q.prototype.k.xi,null,8318441203759412,!1],[-1,Q.prototype.k.Ai,null,0x5a03f29273d3c,
+!1]]],[0,null,!1,null,6385440046177438,[[4,X.prototype.j.vf,null,1,!1,!1,!1,0xb72dc5d89c790,!1],[16,U.prototype.j.ve,null,0,!1,!1,!1,0x756552d92305b,!1,[[8,0],[0,[0,1]]]]],[[-1,Q.prototype.k.xe,null,0xbb6f4b4313a4b,!1,[[11,"isPaused"],[7,[0,1]]]],[-1,Q.prototype.k.xi,null,8979390161250485,!1],[-1,Q.prototype.k.Ai,null,284213440079608,!1]]]]],[0,null,!1,null,7984638284420198,[[-1,Q.prototype.j.Mc,null,0,!1,!1,!1,9133696647138152,!1,[[11,"isPaused"],[8,0],[7,[0,0]]]]],[],[[0,null,!1,null,0xe019c04bf6b90,
+[[18,U.prototype.j.qi,null,0,!1,!1,!1,0x9ec9c6736a21b,!1]],[[18,Ob.prototype.k.Dg,"Platform",6444318175400282,!1,[[3,1]]]]]]],[0,null,!1,null,0xcb56ee707cedd,[[11,R.prototype.j.Kk,null,0,!1,!1,!1,7616992987185691,!1]],[[10,W.prototype.k.wf,null,621268224485841,!1,[[7,[2,"Downloading update..."]]]]]],[0,null,!1,null,7587258246140686,[[11,R.prototype.j.Kk,null,0,!1,!0,!1,0xd7df2d1530baf,!1]],[[10,W.prototype.k.wf,null,5773427850710633,!1,[[7,[2,"No update found."]]]]]],[0,null,!1,null,0x7e5d3180e3aa0,
+[[11,R.prototype.j.wi,null,1,!1,!1,!1,0xd5f7364e142a2,!1]],[[10,W.prototype.k.wf,null,0xd79aec2eeaaff,!1,[[7,[2,"Game updated."]]]],[11,R.prototype.k.xn,null,5755051489563122,!1,[[7,[2,"Krazy Planes has successfully updated just now. Click here to restart the game."]]]],[-1,Q.prototype.k.xi,null,8259419734595971,!1],[-1,Q.prototype.k.Ai,null,6698311130495306,!1]]]]],[0,[!0,"Level"],!1,null,7458157205288591,[[-1,Q.prototype.j.Pd,null,0,!1,!1,!1,7458157205288591,!1,[[1,[2,"Level"]]]]],[],[[0,null,!1,
+null,0x3a100c7f97639,[[-1,Q.prototype.j.Bn,null,0,!1,!1,!1,6037516888355168,!1,[[0,[1,1.5]]]],[-1,Q.prototype.j.Mc,null,0,!1,!1,!1,9823340892368746,!1,[[11,"isPaused"],[8,0],[7,[0,0]]]]],[[-1,Q.prototype.k.xe,null,0x4044896496108,!1,[[11,"PipeVariation"],[7,[19,Q.prototype.A.floor,[[19,Q.prototype.A.random,[[0,0],[0,3]]]]]]]]],[[0,null,!1,null,946964343511743,[[-1,Q.prototype.j.Mc,null,0,!1,!1,!1,942158525925632,!1,[[11,"PipeVariation"],[8,0],[7,[0,0]]]]],[[6,S.prototype.k.CallFunction,null,0x6ecdd7d5647ba,
+!1,[[1,[2,"CreatePipeShort"]],[13]]]]],[0,null,!1,null,0x90ab6f49c0a5a,[[-1,Q.prototype.j.Mc,null,0,!1,!1,!1,0xe6e6ec14a4c9a,!1,[[11,"PipeVariation"],[8,0],[7,[0,1]]]]],[[6,S.prototype.k.CallFunction,null,0xb8c8f3b8bad01,!1,[[1,[2,"CreatePipeShortLong"]],[13]]]]],[0,null,!1,null,307737187850125,[[-1,Q.prototype.j.Mc,null,0,!1,!1,!1,7088391592507287,!1,[[11,"PipeVariation"],[8,0],[7,[0,2]]]]],[[6,S.prototype.k.CallFunction,null,9929472602026068,!1,[[1,[2,"CreatePipeLongShort"]],[13]]]]]]]]],[0,[!0,
+"Input"],!1,null,0xd675a1019d4e1,[[-1,Q.prototype.j.Pd,null,0,!1,!1,!1,0xd675a1019d4e1,!1,[[1,[2,"Input"]]]]],[],[[0,null,!1,null,7426984913654209,[[5,T.prototype.j.Bg,null,1,!1,!1,!1,0xa959ef59ae84e,!1]],[[18,Ob.prototype.k.Vk,"Platform",6661328157667306,!1,[[0,[0,-400]]]]]],[0,null,!1,null,0xae261e2766806,[[4,X.prototype.j.vf,null,1,!1,!1,!1,8293828217964896,!1]],[[18,Ob.prototype.k.Vk,"Platform",0xbb3977799cabd,!1,[[0,[0,-400]]]]]]]],[0,[!0,"Collision"],!1,null,5625581531054905,[[-1,Q.prototype.j.Pd,
+null,0,!1,!1,!1,5625581531054905,!1,[[1,[2,"Collision"]]]]],[],[[0,null,!1,null,6229384262465646,[[18,U.prototype.j.Jn,null,0,!1,!1,!0,0xb21487bae4b7f,!1,[[4,20]]],[-1,Q.prototype.j.Mc,null,0,!1,!1,!1,5847632580319147,!1,[[11,"isPaused"],[8,0],[7,[0,0]]]]],[[18,U.prototype.k.Ag,null,6005497092087538,!1],[6,S.prototype.k.CallFunction,null,0xa1ed711d2e1f,!1,[[1,[2,"RestartGame"]],[13]]]]],[0,null,!1,null,6786308769609281,[[21,U.prototype.j.Ik,null,0,!1,!1,!1,0x45c689d810398,!1,[[8,3],[0,[7,[20,21,U.prototype.A.sc,
+!1,null],[0,2]]]]]],[[21,U.prototype.k.Wk,null,8613066213525604,!1,[[0,[7,[20,21,U.prototype.A.sc,!1,null],[0,2]]]]]]],[0,null,!1,null,0xa1e2fc252026d,[[21,U.prototype.j.Ik,null,0,!1,!1,!1,0xef04e56ad307a,!1,[[8,5],[0,[5,[19,Q.prototype.A.ge],[7,[20,21,U.prototype.A.sc,!1,null],[0,2]]]]]]],[[21,U.prototype.k.Wk,null,5299284008323382,!1,[[0,[5,[19,Q.prototype.A.ge],[7,[20,21,U.prototype.A.sc,!1,null],[0,2]]]]]]]],[0,null,!1,null,9145739915106394,[[20,U.prototype.j.ni,null,0,!1,!1,!1,0x525fb162387ac,
+!1,[[8,3],[0,[7,[19,Q.prototype.A.Bc],[0,2]]]]],[20,U.prototype.j.qi,null,0,!1,!1,!1,7603286201014332,!1],[20,Nb.prototype.j.Dn,"Solid",0,!1,!1,!1,9307006103482356,!1]],[[-1,Q.prototype.k.wn,null,636128883417767,!1,[[11,"PlayerScore"],[7,[0,1]]]],[20,Nb.prototype.k.Dg,"Solid",9481362189218478,!1,[[3,0]]]]]]],[0,[!0,"Memory"],!1,null,9306876313081022,[[-1,Q.prototype.j.Pd,null,0,!1,!1,!1,9306876313081022,!1,[[1,[2,"Memory"]]]]],[],[[0,null,!1,null,846662023014867,[[19,U.prototype.j.ni,null,0,!1,!1,
+!1,0x56322607315c9,!1,[[8,3],[0,[7,[3,[20,19,U.prototype.A.Di,!1,null]],[0,2]]]]]],[[19,U.prototype.k.Bi,null,5990094045008489,!1,[[0,[5,[4,[19,Q.prototype.A.Bc],[7,[20,19,U.prototype.A.Di,!1,null],[0,2]]],[0,5]]]]]]],[0,null,!1,null,4694560689865849,[[21,U.prototype.j.ni,null,0,!1,!1,!1,4737181960364781,!1,[[8,3],[0,[3,[7,[20,21,U.prototype.A.Di,!1,null],[0,2]]]]]]],[[21,U.prototype.k.Ag,null,4816323421882028,!1]]],[0,null,!1,null,5397070056044579,[[18,U.prototype.j.En,null,0,!1,!1,!1,8013627337455417,
+!1],[-1,Q.prototype.j.Mc,null,0,!1,!1,!1,484319153745511,!1,[[11,"isPaused"],[8,0],[7,[0,0]]]]],[[18,U.prototype.k.Ag,null,0xc0b231f91c107,!1],[6,S.prototype.k.CallFunction,null,9207155476228784,!1,[[1,[2,"RestartGame"]],[13]]]]],[0,null,!1,null,0xe1d9feecf58b9,[[17,U.prototype.j.Lk,null,1,!1,!1,!1,4874139858328296,!1]],[[17,U.prototype.k.Ag,null,0x5fb8516ff8a9b,!1]]]]],[0,[!0,"Function"],!1,null,0xf0aa7f416474a,[[-1,Q.prototype.j.Pd,null,0,!1,!1,!1,0xf0aa7f416474a,!1,[[1,[2,"Function"]]]]],[],[[0,
+null,!1,null,0xa004630b94df5,[[6,S.prototype.j.uf,null,2,!1,!1,!1,8190100091631277,!1,[[1,[2,"RestartGame"]]]]],[[-1,Q.prototype.k.Nc,null,0x6ad7aa57bdc9d,!1,[[4,17],[5,[2,"Game"]],[0,[20,18,U.prototype.A.Fg,!1,null]],[0,[20,18,U.prototype.A.Xk,!1,null]]]],[-1,Q.prototype.k.Nc,null,9745732425100548,!1,[[4,16],[5,[2,"UI"]],[0,[7,[19,Q.prototype.A.Bc],[0,2]]],[0,[7,[19,Q.prototype.A.ge],[0,2]]]]],[16,Z.prototype.k.xf,"Fade",8274260564238357,!1],[-1,Q.prototype.k.xe,null,0x3e24ae66ebf0a,!1,[[11,"isPaused"],
+[7,[0,1]]]]]],[0,null,!1,null,0xe4768eb983ce4,[[6,S.prototype.j.uf,null,2,!1,!1,!1,5880032442562335,!1,[[1,[2,"CreatePipeShort"]]]]],[[-1,Q.prototype.k.Nc,null,0x7203fe11eb05d,!1,[[4,1],[5,[2,"Game"]],[0,[4,[19,Q.prototype.A.Bc],[0,200]]],[0,[7,[20,1,U.prototype.A.sc,!1,null],[0,2]]]]],[-1,Q.prototype.k.Nc,null,9735506331020326,!1,[[4,8],[5,[2,"Game"]],[0,[4,[19,Q.prototype.A.Bc],[0,200]]],[0,[5,[19,Q.prototype.A.ge],[7,[20,8,U.prototype.A.sc,!1,null],[0,2]]]]]]]],[0,null,!1,null,7165941636159493,
+[[6,S.prototype.j.uf,null,2,!1,!1,!1,6989412614493768,!1,[[1,[2,"CreatePipeShortLong"]]]]],[[-1,Q.prototype.k.Nc,null,0x44b91e5cb3749,!1,[[4,1],[5,[2,"Game"]],[0,[4,[19,Q.prototype.A.Bc],[0,200]]],[0,[7,[20,1,U.prototype.A.sc,!1,null],[0,2]]]]],[-1,Q.prototype.k.Nc,null,7069781424687582,!1,[[4,7],[5,[2,"Game"]],[0,[4,[19,Q.prototype.A.Bc],[0,200]]],[0,[5,[19,Q.prototype.A.ge],[7,[20,7,U.prototype.A.sc,!1,null],[0,2]]]]]]]],[0,null,!1,null,9340019348510102,[[6,S.prototype.j.uf,null,2,!1,!1,!1,9125959762946678,
+!1,[[1,[2,"CreatePipeLongShort"]]]]],[[-1,Q.prototype.k.Nc,null,0x4f44433e4b618,!1,[[4,2],[5,[2,"Game"]],[0,[4,[19,Q.prototype.A.Bc],[0,200]]],[0,[7,[20,2,U.prototype.A.sc,!1,null],[0,2]]]]],[-1,Q.prototype.k.Nc,null,645936157675272,!1,[[4,8],[5,[2,"Game"]],[0,[4,[19,Q.prototype.A.Bc],[0,200]]],[0,[5,[19,Q.prototype.A.ge],[7,[20,8,U.prototype.A.sc,!1,null],[0,2]]]]]]]]]]]],["Splash Event",[[0,null,!1,null,7637864705099747,[[-1,Q.prototype.j.si,null,1,!1,!1,!1,6621417393101038,!1]],[[-1,Q.prototype.k.Uk,
+null,0x863d22b977772,!1,[[0,[0,1024]],[0,[0,765]]]],[9,Pb.prototype.k.eo,"Timer",9121106298394682,!1,[[0,[1,2]],[3,0],[1,[2,"splash_timer"]]]]]],[0,null,!1,null,0xc2a851d74a538,[[9,Pb.prototype.j.ao,"Timer",0,!1,!1,!1,0x655e2e0d02db3,!1,[[1,[2,"splash_timer"]]]]],[[9,Z.prototype.k.xf,"Fade",5776474067308835,!1]]],[0,null,!1,null,0x95ee2339243ff,[[5,T.prototype.j.Bg,null,1,!1,!1,!1,8007705479787504,!1]],[[9,Z.prototype.k.xf,"Fade",7350295952072681,!1]]],[0,null,!1,null,0x9c05980ff2701,[[4,X.prototype.j.vf,
+null,1,!1,!1,!1,4520951387722214,!1]],[[9,Z.prototype.k.xf,"Fade",9894427567786718,!1]]],[0,null,!1,null,0x6186b792fcbd2,[[9,Z.prototype.j.we,"Fade",1,!1,!1,!1,0x8792132a3b83b,!1]],[[-1,Q.prototype.k.Uk,null,6192385964354714,!1,[[0,[0,1366]],[0,[0,768]]]],[-1,Q.prototype.k.Cn,null,5774364256224769,!1,[[6,"Game Layout"]]]]]]]],"media/",!1,1366,768,4,!0,!0,!0,"0.0.1.6b",!0,!1,0,0,19,!1,!0,[]]};
